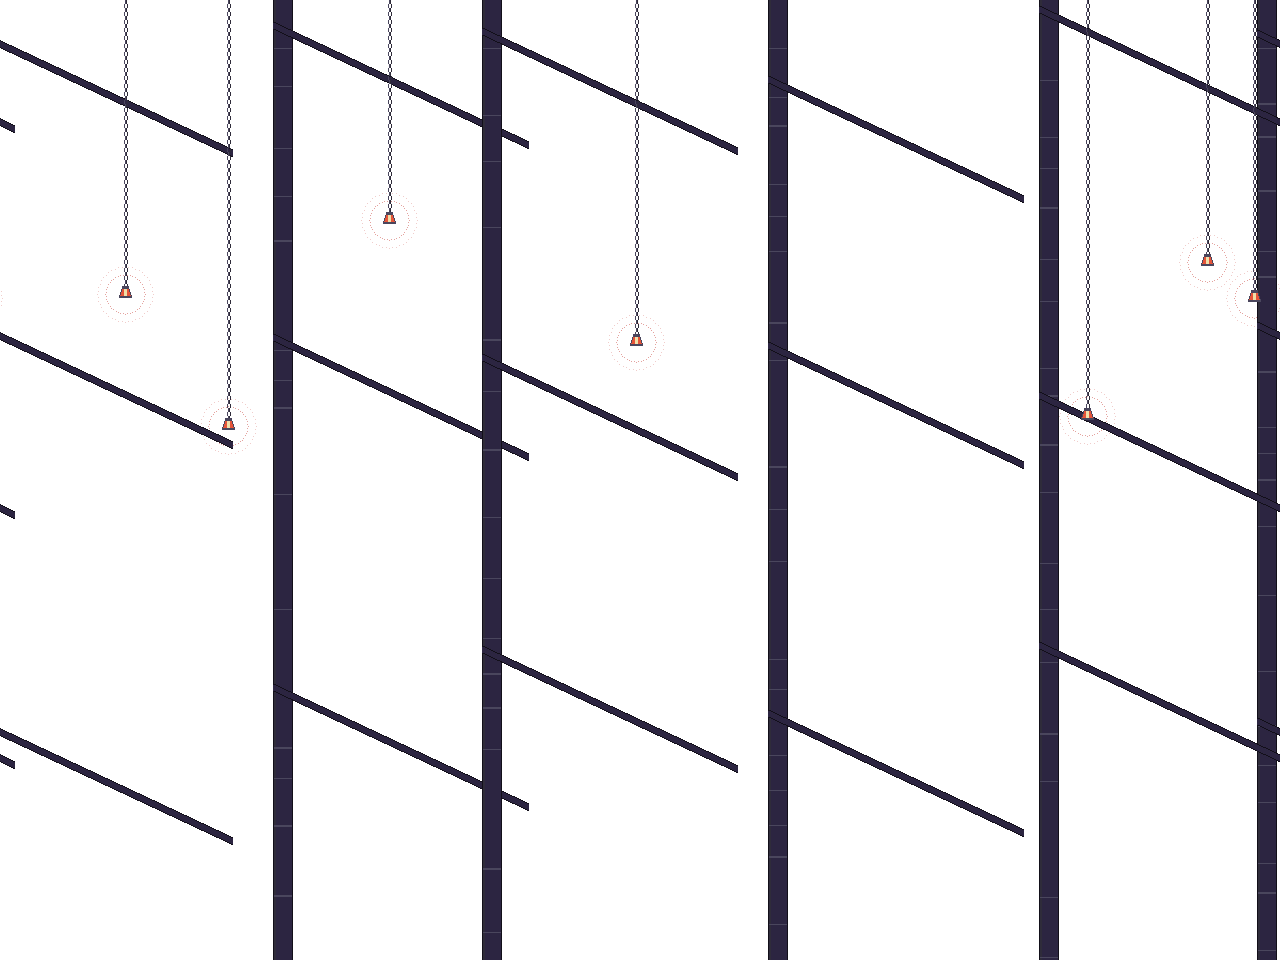
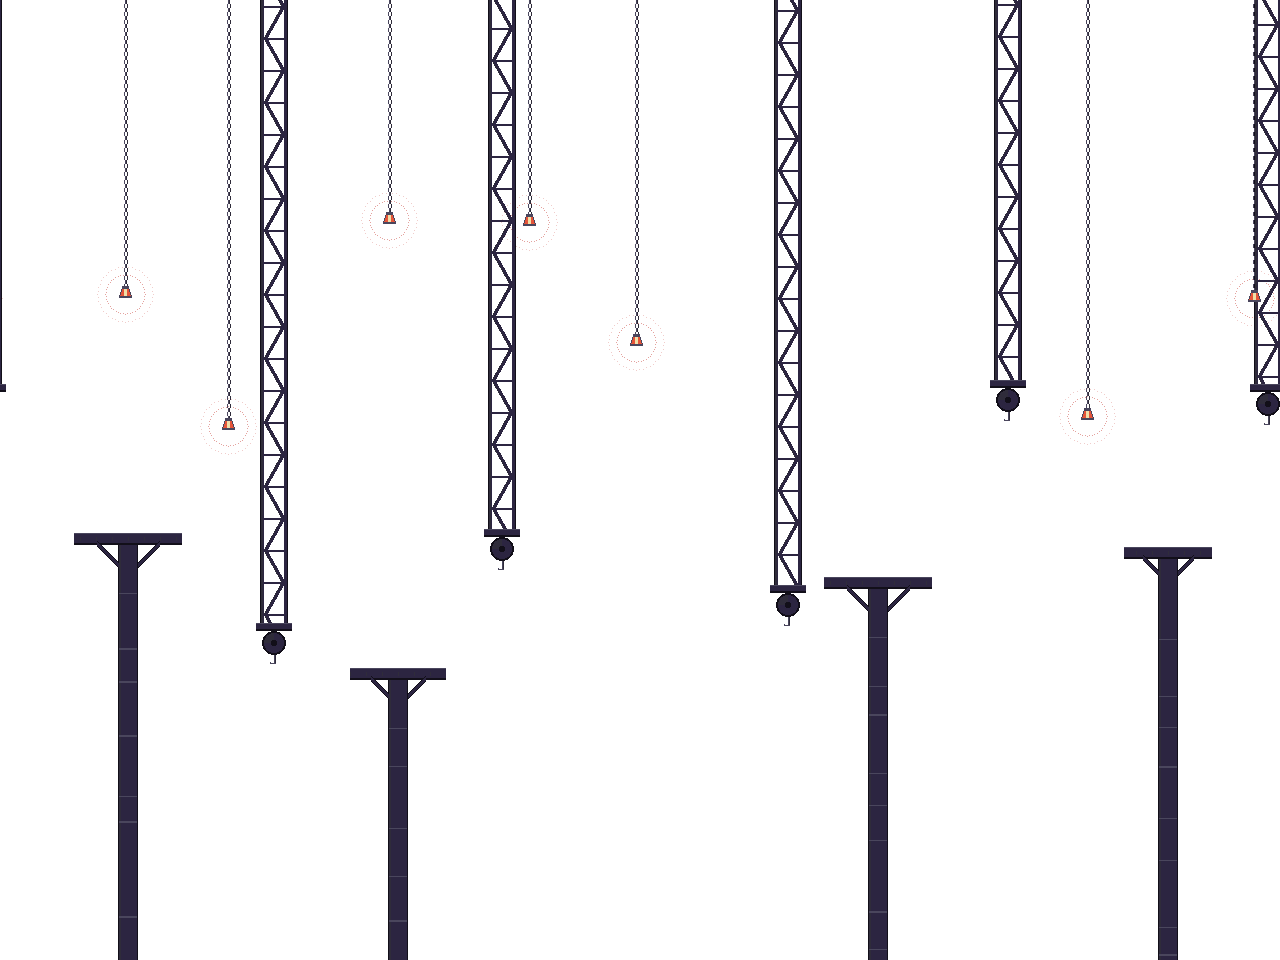
Pass 644: the mid columns break
The Tower's mid girders become lattice trusses hanging to their own depths,
ending in pulleys, over posts that rise to beams on knee braces; Vorrhallow's
mid colonnade is broken off lower, each column across its own lit fracture
(bible 12.120).

diff --git a/tools/art/tilegen.py b/tools/art/tilegen.py
@@ -2256,29 +2256,99 @@ def tower_far():
     return img
 
 
+# The mid columns break (design bible 12.120, pass 644). After the far columns broke
+# (12.119), the mid layers' columns still ran the room's height: the Tower's five
+# girders from roof to floor, and Vorrhallow's colonnade from high in the hall to the
+# water. Now the Tower's trusses hang to their own depths and its posts rise to beams,
+# and Vorrhallow's columns are broken off lower, each across its own fracture.
+MID_RUN_MAX = 0.7  # the longest a mid column may run, as a share of the layer's height
+
+
+def _hanging_truss(img, cx, length, seed):
+    """A lattice truss hanging from the roof at `cx`: two chords with a zigzag web
+    between them, `length` rows long, ending in a bracket plate, a pulley block and
+    a short hook."""
+    w = 14 * D
+    x0 = cx - w // 2
+    panel = w + 2 * D
+    for y in range(length):
+        for dx in (0, 1, 2, 3):
+            put(img, x0 + dx, y, c("night-0" if dx == 0 else ("stone-1" if dx < 3 else "night-1")))
+            put(img, x0 + w - 1 - dx, y, c("night-0" if dx == 0 else "night-1"))
+        # The web: one diagonal a panel, alternating its lean, and a strut at each joint.
+        k, t = divmod(y + int(hash2(seed, 5, 9) * panel), panel)
+        u = t / panel if k % 2 == 0 else 1 - t / panel
+        wx = x0 + 4 + int(u * (w - 10))
+        for dx in range(2 * D):
+            put(img, wx + dx, y, c("night-1" if dx else "stone-1"))
+        if t < D:
+            for dx in range(4, w - 4):
+                put(img, x0 + dx, y, c("night-1"))
+    # The bracket plate, the pulley block's wheel and a hook.
+    for y in range(length, length + 4 * D):
+        for dx in range(-2 * D, w + 2 * D):
+            put(img, x0 + dx, y, c("stone-2" if y == length else ("night-0" if y >= length + 3 * D else "night-1")))
+    wy = length + 10 * D
+    for y in range(wy - 6 * D, wy + 6 * D):
+        for x in range(cx - 6 * D, cx + 6 * D):
+            r = math.hypot(x - cx + 0.5, y - wy + 0.5)
+            if r < 6 * D:
+                col = "night-0" if r > 5 * D or r < 1.5 * D else ("stone-1" if x < cx and y < wy else "night-1")
+                put(img, x, y, c(col))
+    for y in range(wy + 6 * D, wy + 10 * D):
+        put(img, cx, y, c("stone-2"))
+        put(img, cx + 1, y, c("stone-1"))
+    for dx in range(-2 * D, D):
+        put(img, cx + dx, wy + 10 * D, c("stone-2"))
+    put(img, cx - 2 * D, wy + 10 * D - 1, c("stone-2"))
+
+
+def _rising_post(img, cx, height, reach, cs):
+    """A bolted post rising `height` rows from the floor at `cx`, with a cap plate
+    and a beam `reach` either side carried on two knee braces; `cs` are its bolt
+    courses."""
+    w = 10 * D
+    x0, top = cx - w // 2, BG_H - height
+    for y in range(top, BG_H):
+        for dx in range(w):
+            edge = dx in (0, w - 1)
+            col = "night-0" if edge else ("stone-1" if dx < 3 else "night-1")
+            if (not edge) and y in cs:
+                col = "stone-2"  # a bolt course, weathered off the fixed period
+            put(img, x0 + dx, y, c(col))
+    # The beam on the cap plate, lit on its top, riveted, dark beneath.
+    by = top - 6 * D
+    for y in range(by, top):
+        for x in range(cx - reach, cx + reach):
+            col = "stone-2" if y == by else ("night-0" if y >= top - D else "night-1")
+            if by + 2 * D <= y < top - 2 * D and (x - cx) % (8 * D) == 0:
+                col = "stone-1"
+            put(img, x, y, c(col))
+    # Knee braces from the post's sides up to the beam's underside.
+    run = int(reach * 0.6)
+    for side in (-1, 1):
+        for t in range(run - w // 2):
+            x = cx + side * (w // 2 + t)
+            y = top + run - w // 2 - t
+            for th in range(3 * D):
+                put(img, x, y - th, c("night-0" if th in (0, 3 * D - 1) else "night-1"))
+
+
 def tower_mid():
     img = Image.new("RGBA", (BG_W, BG_H), CLEAR)
     rng = random.Random(22)
-    # Cross-braced girders bolted between the walls.
+    # The mid girders break (bible 12.120): none runs the room's height. Lattice
+    # trusses hang from the roof, each to its own depth, and end in a pulley block;
+    # between them, bolted posts rise from the floor and carry a beam on knee braces.
+    bay = BG_W // 5
     for i in range(5):
-        x0 = i * BG_W // 5 + rng.randrange(-40, 40)
-        w = 10 * D
-        cs = masonry_courses(0, BG_H, 500 + i, 24 * D)
-        for y in range(BG_H):
-            for dx in range(w):
-                edge = dx in (0, w - 1)
-                col = "night-0" if edge else ("stone-1" if dx < 3 else "night-1")
-                if (not edge) and y in cs:
-                    col = "stone-2"  # a bolt course, weathered off the fixed period
-                put(img, x0 + dx, y, c(col))
-        # A diagonal brace to the next girder.
-        x1 = x0 + BG_W // 5
-        for k in range(0, BG_H, 160 * D):
-            y0 = k + rng.randrange(0, 40) * D
-            for t in range(x1 - x0):
-                yy = y0 + t * 60 * D // max(1, (x1 - x0))
-                for th in range(4 * D):
-                    put(img, x0 + t, yy + th, c("night-1" if 0 < th < 4 * D - 1 else "night-0"))
+        _hanging_truss(img, i * bay + rng.randrange(-10, 11) * D, int(BG_H * rng.uniform(0.32, MID_RUN_MAX - 0.05)), i)
+    for i in range(5):
+        if i == 2:
+            continue  # one bay stands open to the far wall
+        h = int(BG_H * rng.uniform(0.26, 0.44))
+        _rising_post(img, i * bay + bay // 2 + rng.randrange(-10, 11) * D, h, rng.randrange(18, 28) * D,
+                     masonry_courses(BG_H - h, BG_H, 500 + i, 24 * D))
     # Chains and hanging lamps.
     for i in range(7):
         x = rng.randrange(BG_W)
@@ -3083,21 +3153,26 @@ def vorrhallow_far():
 def vorrhallow_mid():
     img = Image.new("RGBA", (BG_W, BG_H), CLEAR)
     rng = random.Random(62)
-    # Broken colonnades and toppled statues of dwarf kings, nearer and darker,
-    # with stillglass grown out of them.
+    # A broken colonnade, nearer and darker, with stillglass grown out of it. The
+    # columns are broken off well below the vault (bible 12.120), none within
+    # MID_RUN_MAX of the hall's height, each across a fracture of its own: a slant
+    # one way or the other, chipped, its broken face lit.
     columns = []
     for i in range(6):
         x0 = int((i + rng.uniform(0.1, 0.7)) * BG_W / 6)
         w = rng.randrange(14, 24) * D
-        top = rng.randrange(120, 300) * D
+        top = rng.randrange(int(BG_H * (1 - MID_RUN_MAX)) // D + 46, 310) * D
+        slant = rng.choice([-1, 1]) * rng.uniform(0.4, 1.0)
         cs = masonry_courses(top, BG_H, 620 + i, 24 * D)
-        for y in range(top, BG_H):
-            for dx in range(w):
-                if y < top + 8 * D and (dx // (4 * D)) % 2 and rng.random() > 0.3:
-                    continue  # a broken top
+        for dx in range(w):
+            u = dx / w if slant > 0 else 1 - dx / w
+            brk = top + int(abs(slant) * u * 18 * D + hash2(dx // D, 3, 620 + i) * 6 * D)
+            for y in range(brk, BG_H):
                 col = "stone-1" if dx < w * 0.25 else masonry_shade(x0 + dx, y, 620 + i, "night-0", "night-1", "stone-2")
                 if y in cs:
                     col = "night-0"  # a weathered mortar course
+                if y < brk + D:
+                    col = "stone-2"  # the broken face, catching the light
                 put(img, x0 + dx, y, c(col))
         columns.append((x0, w, top))
     # Stillglass bursting from the columns' faces: a broad-based cluster seated on
@@ -3108,7 +3183,7 @@ def vorrhallow_mid():
     deal = stillglass_habits(rng, 2 * len(columns))
     for x0, w, top in columns:
         side = rng.choice([-1, 1])
-        ry = top // D + rng.randrange(24, 80)
+        ry = top // D + rng.randrange(34, 70)
         for n, s_ in enumerate((side, -side)):
             if n and rng.random() < 0.45:
                 continue
@@ -3119,12 +3194,12 @@ def vorrhallow_mid():
                               rng.randrange(12, 18) if n else rng.randrange(22, 33),
                               rng.randrange(7, 10) if n else rng.randrange(12, 17),
                               MID_STILLGLASS, glow=MID_STILLGLASS_GLOW, habit=habits[-1], veins=MID_STILLGLASS_VEIN)
-            ry += rng.randrange(50, 110)
+            ry += rng.randrange(40, 80)
     STILLGLASS_SEATS["vorrhallow_mid"] = {"pillars": [(x // D, w // D) for x, w, _ in columns], "seats": seats, "habits": habits}
-    # Hanging chains from the vault.
+    # Hanging chains from the vault, ending well above the broken columns.
     for _ in range(8):
         x = rng.randrange(BG_W)
-        for y in range(0, rng.randrange(60, 180) * D):
+        for y in range(0, rng.randrange(40, 130) * D):
             if (y // (3 * D)) % 2 == 0:
                 put(img, x, y, c("night-1"))
     return img

diff --git a/tools/art/test_tilegen.py b/tools/art/test_tilegen.py
@@ -726,6 +726,43 @@ def test_no_far_column_runs_the_height_of_its_layer():
         assert stood > tg.BG_W // 2 * 0.25, f"{painter.__name__}: columns stand in only {stood} of the width"
 
 
+def _mid_column_run(img):
+    """The longest vertical run, as a share of the layer's height, of anything drawn
+    on a (transparent) mid layer in one column of pixels, bridging gaps of up to 12
+    world px."""
+    a = img.getchannel("A").load()
+    longest = 0
+    for x in range(0, tg.BG_W, 2):
+        run = gap = 0
+        for y in range(tg.BG_H):
+            if a[x, y]:
+                run = run + gap + 1 if run else 1
+                gap = 0
+                longest = max(longest, run)
+            else:
+                gap += 1
+                if gap > 12 * tg.D:
+                    run = gap = 0
+    return longest / tg.BG_H
+
+
+def test_no_mid_column_runs_the_height_of_the_room():
+    # After the far columns broke (pass 643), the mid layers' columns still ran the
+    # room's height: the Tower's girders roof to floor, Vorrhallow's colonnade from
+    # high in the hall to the water. Now the Tower's trusses hang to their own depths
+    # and its posts rise to beams, and Vorrhallow's columns are broken off lower
+    # (bible 12.120, pass 644). Running any of them the height again fails here.
+    for painter in (tg.tower_mid, tg.vorrhallow_mid):
+        img = painter()
+        run = _mid_column_run(img)
+        assert run <= tg.MID_RUN_MAX, f"{painter.__name__}: a column runs {run:.2f} of the layer's height"
+        # And the layer still has its columns: something stands at the hall's
+        # middle height, or near the floor, in a good share of the width.
+        a = img.getchannel("A").load()
+        stood = sum(1 for x in range(0, tg.BG_W, 2) if any(a[x, y] for y in range(int(tg.BG_H * 0.7), int(tg.BG_H * 0.75))))
+        assert stood > tg.BG_W // 2 * 0.06, f"{painter.__name__}: columns stand in only {stood} of the width"
+
+
 def test_a_leaning_shard_has_no_gaps():
     # A leaning shard slid each column sideways, leaving holes in its crest, and every
     # hole drew a cleft: the crystal halls' ridge was striped. It is whole now: from

diff --git a/docs/loop/pass-644.md b/docs/loop/pass-644.md
@@ -1,0 +1,91 @@
+# Pass 644: the mid columns break
+
+## Category
+
+Art cohesion and environments. The top item of the queue, from pass 643's Next: after the far
+columns broke (pass 643), the mid layers' columns still ran the room's height, the Tower's
+girders and Vorrhallow's colonnade.
+
+No note from Sean was new. The PixelLab art loop stays **gated** on Sean: three guardian bases
+(Haar Wyrm, Thane Vorrund, Drowned Warden) wait for his OK, the limit of three. No PixelLab
+generations were spent, and no Autosprite credits. README's playtest link already points at
+https://github.com/sagedragoon79/Yldenfall.
+
+## Audit
+
+Measured as the longest run, in one column of pixels, of anything drawn on the (transparent)
+mid layer, bridging gaps of up to 12 world px:
+
+- **The Tower's girders** (`tower_mid`): five bolted girders from roof to floor, with diagonal
+  braces between them at every height. 1.00 of the layer's height.
+- **Vorrhallow's colonnade** (`vorrhallow_mid`): six columns from 0.25 to 0.62 of the way down
+  the hall to the water, each with a small crenellated break. 0.72; in the room's view the
+  tallest stood from just under the arches to the floor.
+
+## What was built
+
+Design bible 12.120, in `tools/art/tilegen.py`. No mid column now runs more than
+`MID_RUN_MAX` (0.7) of its layer's height.
+
+- **The Tower: trusses and posts** (`_hanging_truss`, `_rising_post`). Five lattice trusses hang
+  from the roof, each to its own depth (0.32 to 0.65): two chords, a zigzag web with a strut at
+  each joint, and at the foot a bracket plate, a pulley wheel and a hook. Four bolted posts rise
+  from the floor between them (0.26 to 0.44) and carry a riveted beam on two knee braces; one
+  bay stands open to the far wall. Longest run: 0.69.
+- **Vorrhallow: a ruin** (`vorrhallow_mid`). The columns break off between 0.35 and 0.6 of the
+  hall's height, each across a slanted, chipped fracture of its own with its broken face lit.
+  The stillglass seats sit lower to stay below each break, and the vault's chains end well
+  above the columns. Longest run: 0.60.
+
+Thrown out on the way:
+
+- **Vorrhallow's columns broken between 0.35 and 0.68 of the height.** The tallest still stood
+  from under the arches to the floor in the room's view. The highest break is now 0.6.
+
+## Checked by eye
+
+At 1x and 2x in `tower/foot` and `vorrhallow/alpha_den`, before and after (after a Godot
+reimport). The Tower's mid layer is hanging trusses ending in pulleys over beam-topped posts,
+with no bar from top to bottom; Vorrhallow's colonnade is broken stumps at four or five
+heights, the glass seated below the breaks. No foreground layer frames the rooms yet; see Next.
+
+## Tests
+
+`test_no_mid_column_runs_the_height_of_the_room` in `tools/art/test_tilegen.py`: in both mid
+layers no column runs more than `MID_RUN_MAX` of the height, and something still stands near
+the floor in a share of the width (so an empty layer does not pass).
+
+| Mutation | Result |
+| --- | --- |
+| the trusses run the full height | fails (1.00) |
+| the posts rise to the roof | fails (1.00) |
+| no trusses or posts drawn | fails (stand in 0 of the width) |
+| Vorrhallow's columns topped from 60 world px | fails (0.84) |
+
+## Full suite
+
+Pending.
+
+## Rubric (design bible 15.3)
+
+| Category | Weight | Score | Notes |
+| --- | --- | --- | --- |
+| Movement feel | 20 | 99 | Unchanged. |
+| Combat and enemies | 15 | 99 | Unchanged. |
+| World and level design | 15 | 99 | Unchanged. |
+| Art cohesion | 15 | 98 | No column in the far or mid layers of the Tower or Vorrhallow runs the room's height now. No foreground layer frames the rooms; the town's skyline, the fog and the Haar's dither stay. |
+| Bosses | 10 | 99 | Unchanged. |
+| Systems | 10 | 99 | Unchanged. |
+| Audio | 5 | 99 | Unchanged. |
+| Stability and performance | 5 | 99 | Unchanged (baked pictures). |
+| Story and world | 5 | 99 | Unchanged. |
+
+Weighted: 98.85.
+
+## Next
+
+No foreground layer frames the rooms. Then: foes in two styles (the knight's grey-green blends
+in); set dressing pasted on (crystals, the tree through the shrine gate, identical islands);
+spikes that read as grass or railings; light as additive circles; ground strip tiling. Held as
+before: the Haar's fog and dither, the sword's slab and the hero's attack pose, the hero's size,
+the shop portrait. The next independent grade is due after pass 645.

diff --git a/docs/design-bible.md b/docs/design-bible.md
@@ -3100,7 +3100,20 @@ No far column now runs from the top of its layer to the bottom (`FAR_RUN_MAX`, 0
 
 Judged by eye at 1x and 2x in `heartwood/entrance`, `tower/foot` and `vorrhallow/alpha_den`. `test_no_far_column_runs_the_height_of_its_layer` (`tools/art/test_tilegen.py`) holds it.
 
-- **Not done here.** The mid layers' columns (the Tower's girders, Vorrhallow's colonnade) still run the height of the room, and no foreground layer frames the rooms.
+- **Not done here.** The mid layers' columns (the Tower's girders, Vorrhallow's colonnade; done in pass 644, 12.120) still run the height of the room, and no foreground layer frames the rooms.
+
+### 12.120 The mid columns break (pass 644)
+
+After 12.119, the mid layers still had columns running the room's height: the Tower's five girders from roof to floor, and Vorrhallow's colonnade from high in the hall down to the water.
+
+No mid column now runs more than `MID_RUN_MAX` (0.7 of the layer's height, in `tools/art/tilegen.py`):
+
+- **The Tower** (`tower_mid`, `_hanging_truss`, `_rising_post`). Five lattice trusses hang from the roof, each to its own depth (0.32 to 0.65 of the layer): two chords, a zigzag web with a strut at each joint, and at the foot a bracket plate, a pulley wheel and a hook. Between them four bolted posts rise from the floor (0.26 to 0.44 of the layer) and carry a riveted beam on two knee braces; one bay stands open to the far wall. The chains and hanging lamps stay.
+- **Vorrhallow** (`vorrhallow_mid`). The colonnade's columns are broken off lower, between 0.35 and 0.6 of the hall's height, each across a fracture of its own: a slant one way or the other, chipped, its broken face lit. The stillglass is seated on each column below its break, and the vault's chains end well above the columns.
+
+Judged by eye at 1x and 2x in `tower/foot` and `vorrhallow/alpha_den`. `test_no_mid_column_runs_the_height_of_the_room` (`tools/art/test_tilegen.py`) holds it.
+
+- **Not done here.** No foreground layer frames the rooms.
 
 ## 13. Asset Production Plan
 
